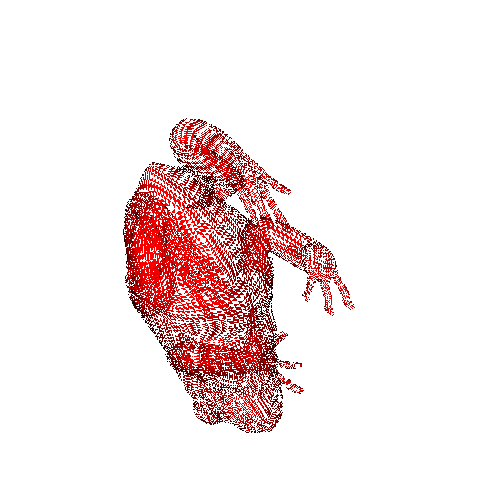
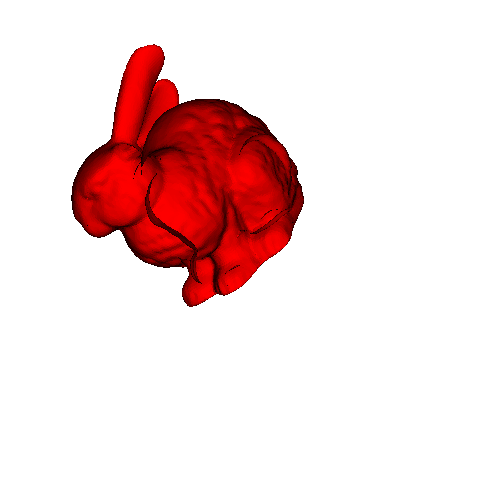
rotate model

Changed region(s): [[0.12, 0.09, 0.72, 0.87]]

diff --git a/main.go b/main.go
@@ -10,10 +10,9 @@ import (
 
 func main() {
 	const (
-		aX = 2000.0
-		aY = 2000.0
-		u0 = 250.0
-		v0 = 250.0
+		scale   = 2500.0
+		offsetX = 250.0
+		offsetY = 250.0
 	)
 
 	angleX := math.Pi / 6
@@ -26,7 +25,7 @@ func main() {
 
 	rotation := rotationX.Multiply(rotationY.Multiply(rotationZ))
 
-	tx, ty, tz := 0.0, 0.0, 10.0
+	tx, ty, tz := 0.0, 0.0, 0.0
 
 	mat := geometry.NewMatrix(500, 500, true, geometry.RGBColor{R: 255, G: 255, B: 255})
 	zb := geometry.NewZBuffer(500, 500)
@@ -41,64 +40,36 @@ func main() {
 		if len(face.Indices) < 3 {
 			continue
 		}
-		vert0 := vertex[face.Indices[0]-1]
-		vert1 := vertex[face.Indices[1]-1]
-		vert2 := vertex[face.Indices[2]-1]
+		v0 := vertex[face.Indices[0]-1]
+		v1 := vertex[face.Indices[1]-1]
+		v2 := vertex[face.Indices[2]-1]
 
-		p0 := geometry.Point3D{
-			X: float64(vert0.X),
-			Y: float64(vert0.Y),
-			Z: float64(vert0.Z),
-		}
-		p1 := geometry.Point3D{
-			X: float64(vert1.X),
-			Y: float64(vert1.Y),
-			Z: float64(vert1.Z),
-		}
-		p2 := geometry.Point3D{
-			X: float64(vert2.X),
-			Y: float64(vert2.Y),
-			Z: float64(vert2.Z),
-		}
+		p0 := geometry.Point3D{X: v0.X, Y: v0.Y, Z: v0.Z}
+		p1 := geometry.Point3D{X: v1.X, Y: v1.Y, Z: v1.Z}
+		p2 := geometry.Point3D{X: v2.X, Y: v2.Y, Z: v2.Z}
 
 		p0 = rotation.TransformPoint(p0)
 		p1 = rotation.TransformPoint(p1)
 		p2 = rotation.TransformPoint(p2)
 
-		p0.X += tx
-		p0.Y += ty
-		p0.Z += tz
-		p1.X += tx
-		p1.Y += ty
-		p1.Z += tz
-		p2.X += tx
-		p2.Y += ty
-		p2.Z += tz
+		p0 = geometry.Translate(p0, tx, ty, tz)
+		p1 = geometry.Translate(p1, tx, ty, tz)
+		p2 = geometry.Translate(p2, tx, ty, tz)
 
 		tri3D := geometry.TriangleVertices3D{
-			P1: p0,
-			P2: p1,
-			P3: p2,
+			P1: geometry.Point3D{X: p0.X, Y: p0.Y, Z: p0.Z},
+			P2: geometry.Point3D{X: p1.X, Y: p1.Y, Z: p1.Z},
+			P3: geometry.Point3D{X: p2.X, Y: p2.Y, Z: p2.Z},
 		}
 
 		normal := tri3D.CalculateNormal()
 		cosTheta := normal.Z // Направление света [0,0,1]
 
 		if cosTheta < 0 {
-
 			tri2D := geometry.TriangleVertices2D{
-				P1: geometry.Point2D{
-					X: p0.X*aX + u0,
-					Y: -p0.Y*aY + v0,
-				},
-				P2: geometry.Point2D{
-					X: p1.X*aX + u0,
-					Y: -p1.Y*aY + v0,
-				},
-				P3: geometry.Point2D{
-					X: p2.X*aX + u0,
-					Y: -p2.Y*aY + v0,
-				},
+				P1: geometry.Point2D{X: p0.X*scale + offsetX, Y: -p0.Y*scale + offsetY},
+				P2: geometry.Point2D{X: p1.X*scale + offsetX, Y: -p1.Y*scale + offsetY},
+				P3: geometry.Point2D{X: p2.X*scale + offsetX, Y: -p2.Y*scale + offsetY},
 				Color: geometry.RGBColor{
 					R: uint8(-255 * cosTheta),
 					G: 0,
@@ -111,7 +82,7 @@ func main() {
 	}
 
 	img := save.MatrixToImage(&mat)
-	if err := save.SaveImage(img, "output1.png"); err != nil {
+	if err := save.SaveImage(img, "output.png"); err != nil {
 		fmt.Println("Error saving image:", err)
 	}
 }
